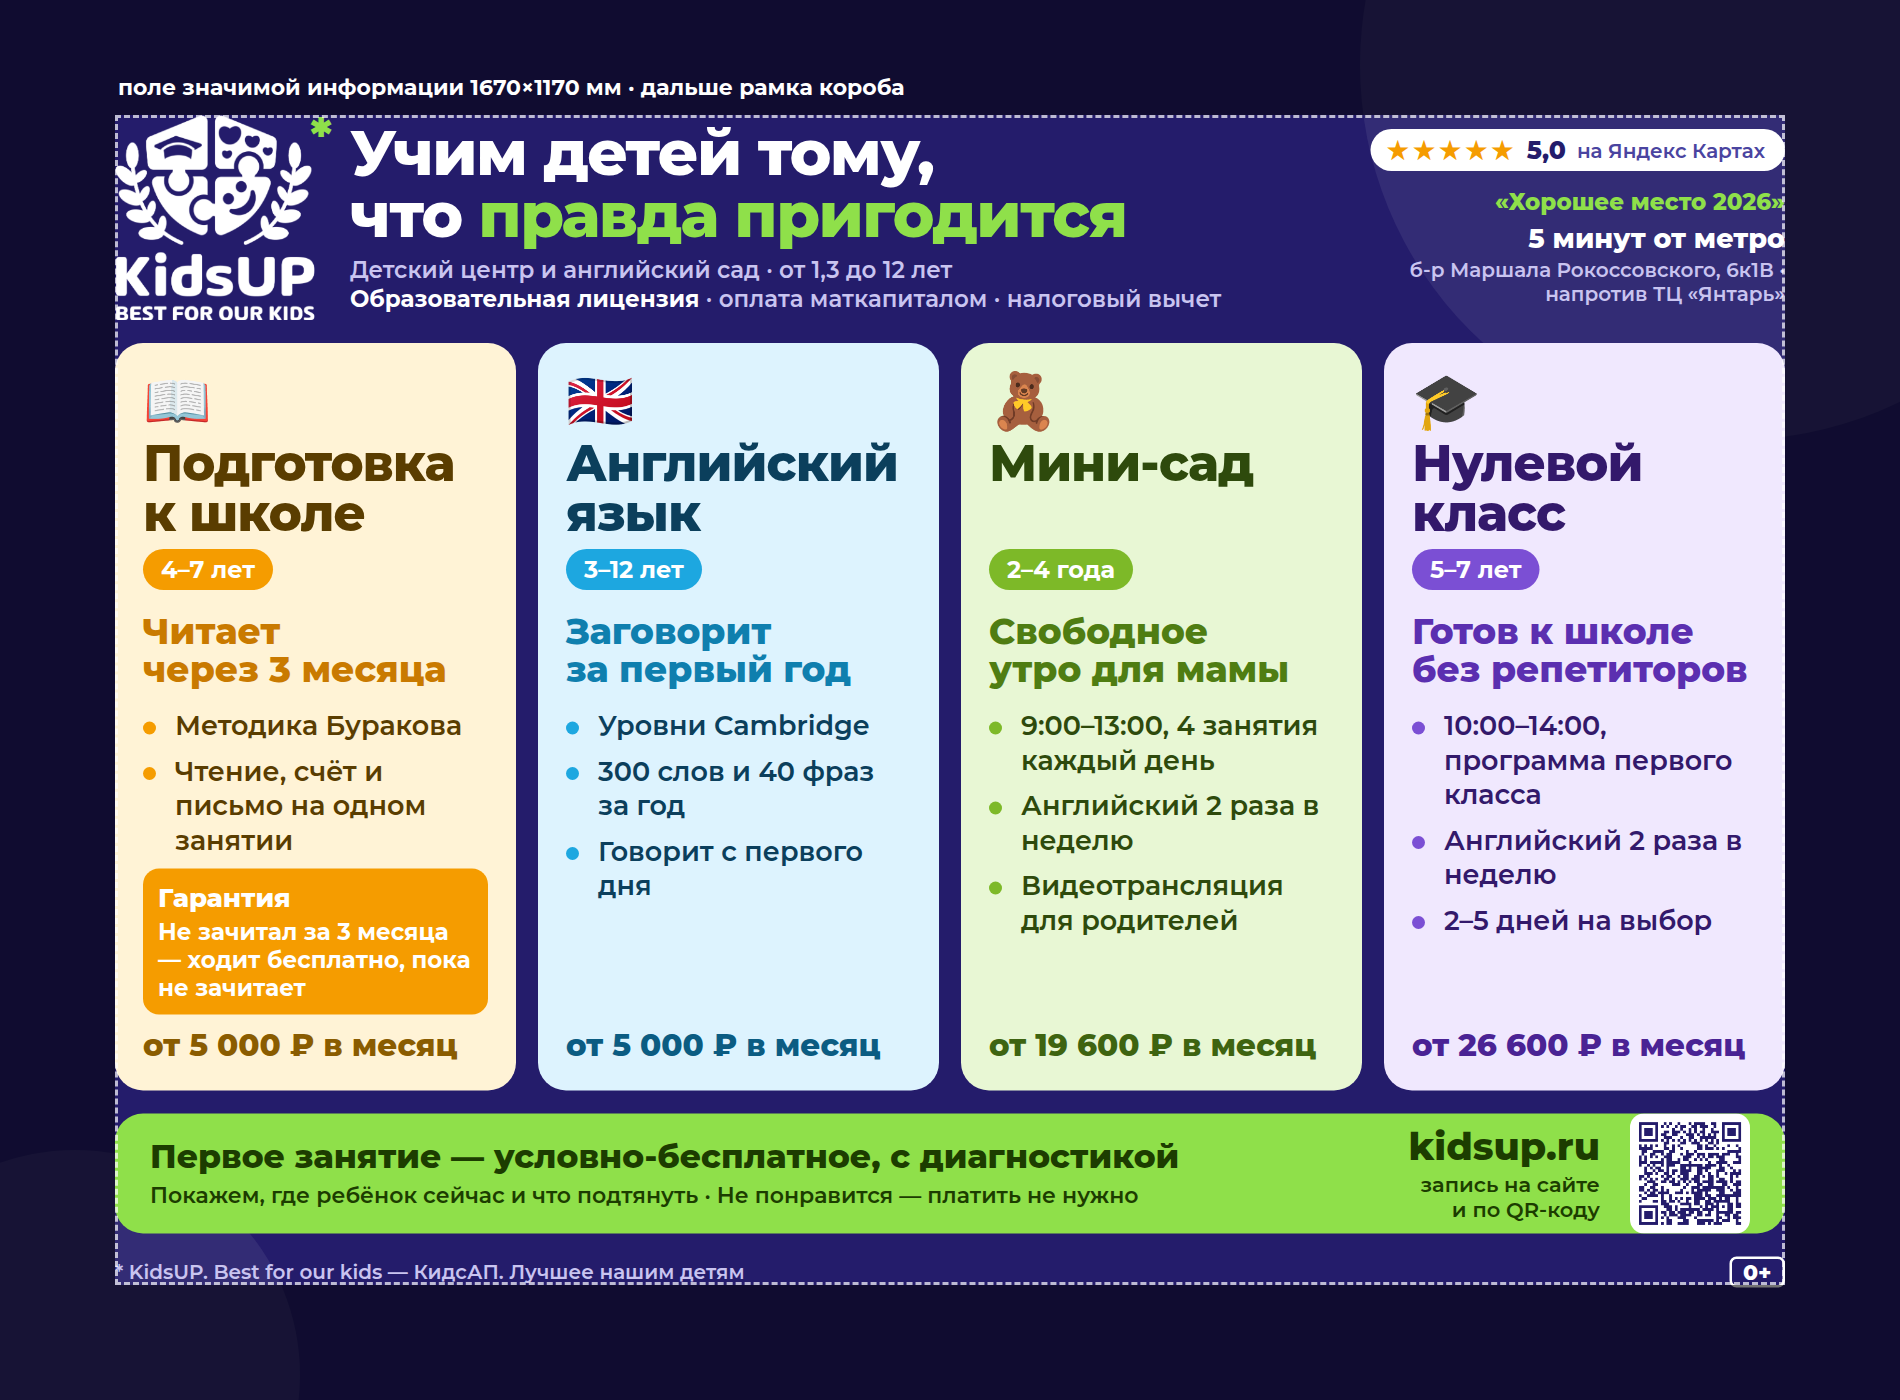
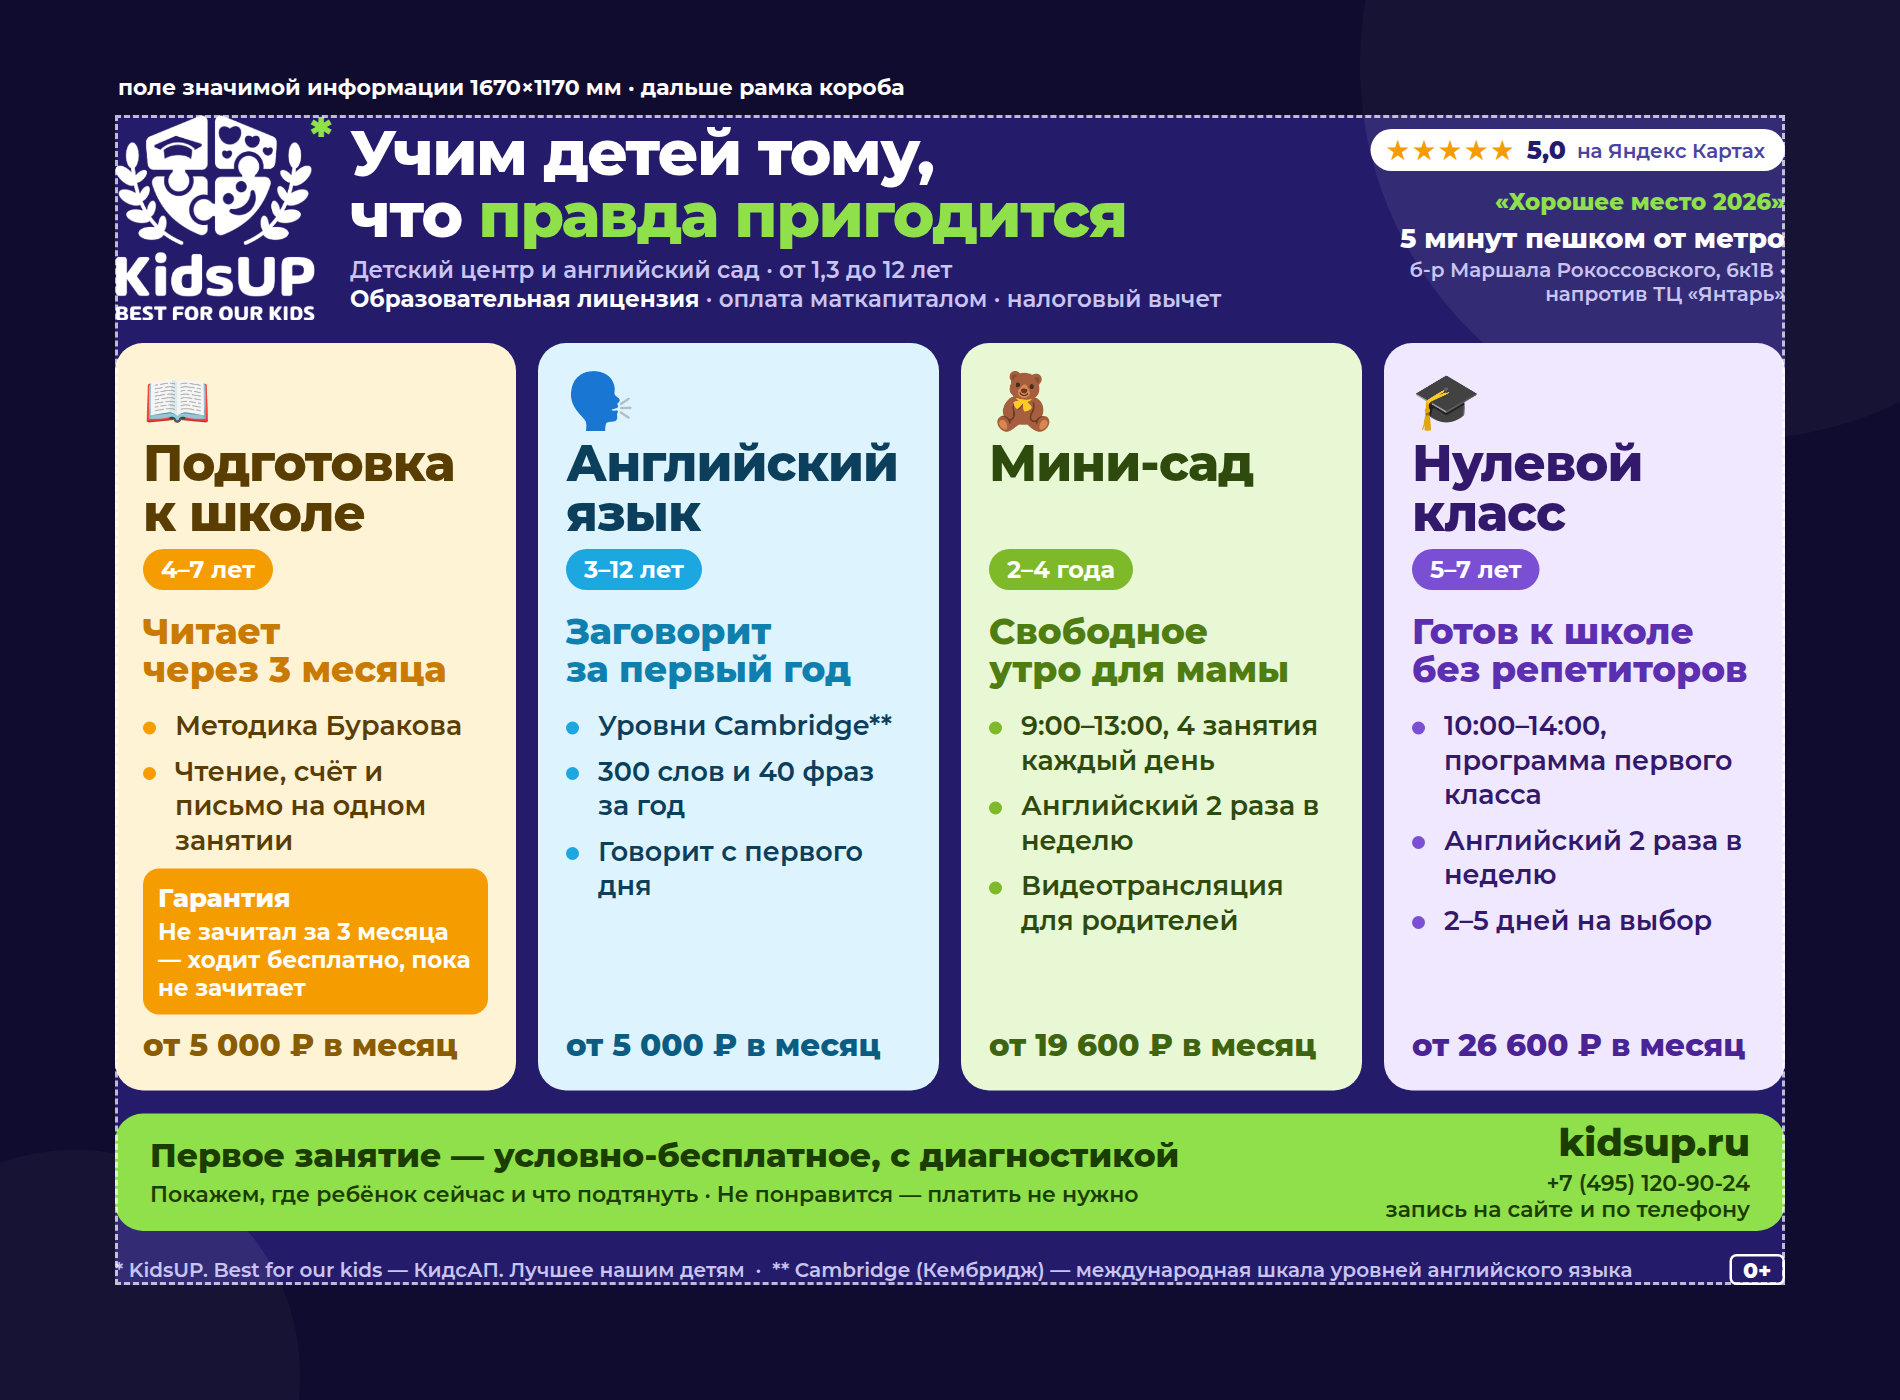
Баннер в метро v4 по правкам метрополитена: без QR и флага, сноска на Cambridge, «5 минут пешком от метро»
Claude-Session: https://claude.ai/code/session_01DP7mBr5C3WFqQnNia5bFBU

diff --git a/docs/rabota/banner_metro.py b/docs/rabota/banner_metro.py
@@ -117,7 +117,7 @@ display:flex;align-items:center;gap:60px;color:#1C3D00}
 .foot .l span{display:block;margin-top:16px;font-size:44px;font-weight:600}
 .foot .r{margin-left:auto;text-align:right}
 .foot .r b{display:block;font-size:76px;font-weight:800;line-height:1.05}
-.foot .r span{display:block;margin-top:14px;font-size:42px;line-height:1.15;font-weight:600;white-space:nowrap}
+.foot .r span{display:block;margin-top:14px;font-size:44px;line-height:1.2;font-weight:600;white-space:nowrap}
 .foot img{height:240px;width:240px;border-radius:28px;background:#fff;padding:12px;flex:none}
 /* сноска и возрастная категория рекламы */
 .note{height:64px;display:flex;align-items:center;justify-content:space-between;color:#C9C4F0;font-size:40px;font-weight:600}
@@ -135,7 +135,7 @@ display:flex;align-items:center;gap:60px;color:#1C3D00}
       <div class="m">
         <div class="ya"><i>★★★★★</i><b>5,0</b><em>на Яндекс Картах</em></div>
         <span class="hm">«Хорошее место 2026»</span>
-        <b class="d">5 минут от метро</b><span>б-р Маршала Рокоссовского, 6к1В · напротив ТЦ «Янтарь»</span>
+        <b class="d">5 минут пешком от метро</b><span>б-р Маршала Рокоссовского, 6к1В · напротив ТЦ «Янтарь»</span>
       </div>
     </div>
 
@@ -153,12 +153,12 @@ display:flex;align-items:center;gap:60px;color:#1C3D00}
         <div class="price">от 5 000 ₽ в месяц</div>
       </div>
       <div class="c c2">
-        <div class="ic">🇬🇧</div>
+        <div class="ic">🗣</div>
         <h2>Английский<br>язык</h2>
         <span class="age">3–12 лет</span>
         <div class="win">Заговорит<br>за первый год</div>
         <ul>
-          <li>Уровни Cambridge</li>
+          <li>Уровни Cambridge**</li>
           <li>300 слов и 40 фраз за год</li>
           <li>Говорит с первого дня</li>
         </ul>
@@ -193,10 +193,9 @@ display:flex;align-items:center;gap:60px;color:#1C3D00}
     <div class="foot">
       <div class="l"><b>Первое занятие — условно-бесплатное, с диагностикой</b>
         <span>Покажем, где ребёнок сейчас и что подтянуть · Не понравится — платить не нужно</span></div>
-      <div class="r"><b>kidsup.ru</b><span>запись на сайте<br>и по QR-коду</span></div>
-      <img src="__QR__">
+      <div class="r"><b>kidsup.ru</b><span>+7 (495) 120-90-24<br>запись на сайте и по телефону</span></div>
     </div>
-    <div class="note"><span>* KidsUP. Best for our kids — КидсАП. Лучшее нашим детям</span><span class="age0">0+</span></div>
+    <div class="note"><span>* KidsUP. Best for our kids — КидсАП. Лучшее нашим детям &nbsp;·&nbsp; ** Cambridge (Кембридж) — международная шкала уровней английского языка</span><span class="age0">0+</span></div>
     __GUIDE__
   </div>
 </div>"""
@@ -204,7 +203,7 @@ display:flex;align-items:center;gap:60px;color:#1C3D00}
 def build_html(guide=False):
     g = '<div class="guide"><span>поле значимой информации 1670×1170 мм · дальше рамка короба</span></div>' if guide else ""
     return (HTML.replace("__FONTS__", FONTS).replace("__LOGO__", LOGO)
-            .replace("__QR__", qr_png()).replace("__GUIDE__", g))
+            .replace("__GUIDE__", g))
 
 def shot(html, scale, path):
     with sync_playwright() as p:

diff --git a/app/main.py b/app/main.py
@@ -2594,7 +2594,7 @@ def _wazzup_process(payload: dict) -> None:
     _wazzup_tag(payload)
 
 
-APP_VERSION = "2026-09-03.10"
+APP_VERSION = "2026-09-03.11"
 
 
 @app.get("/api/net")
